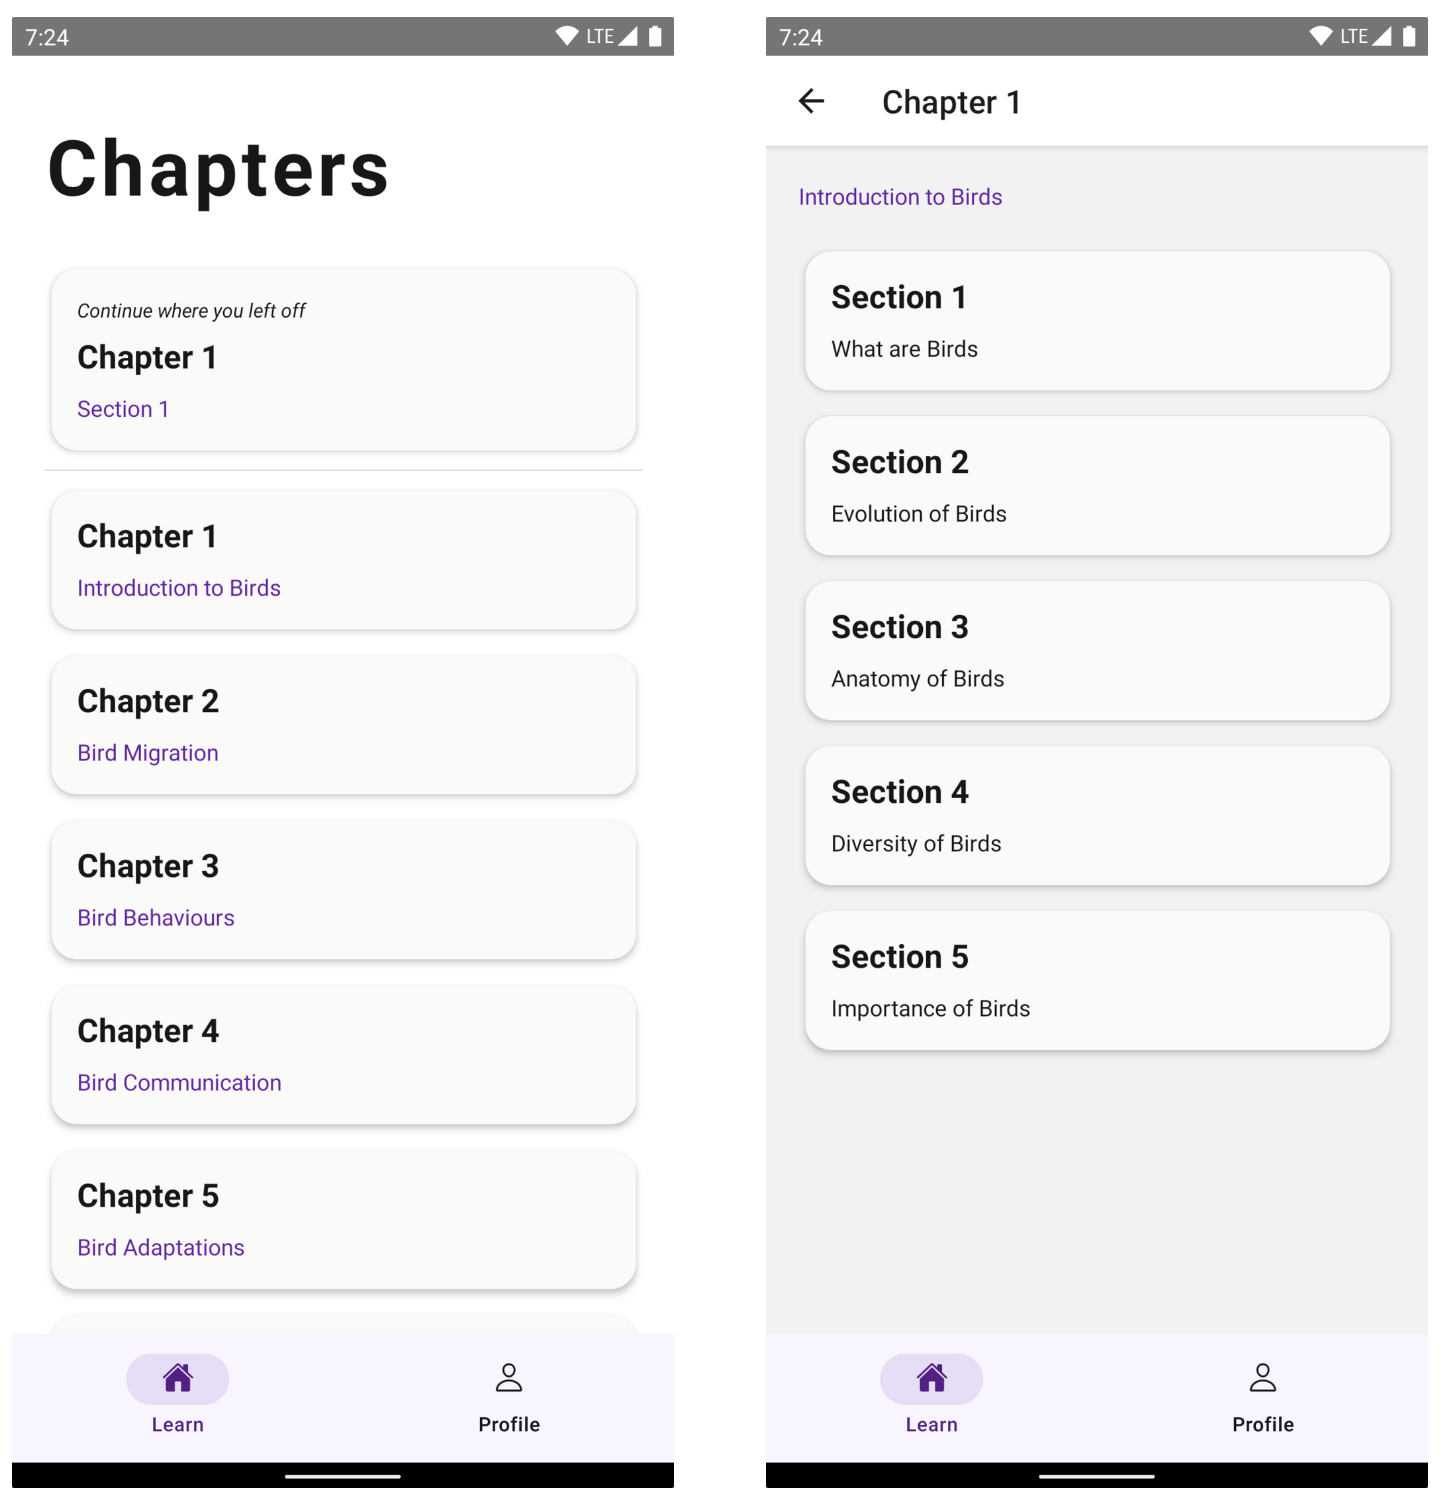
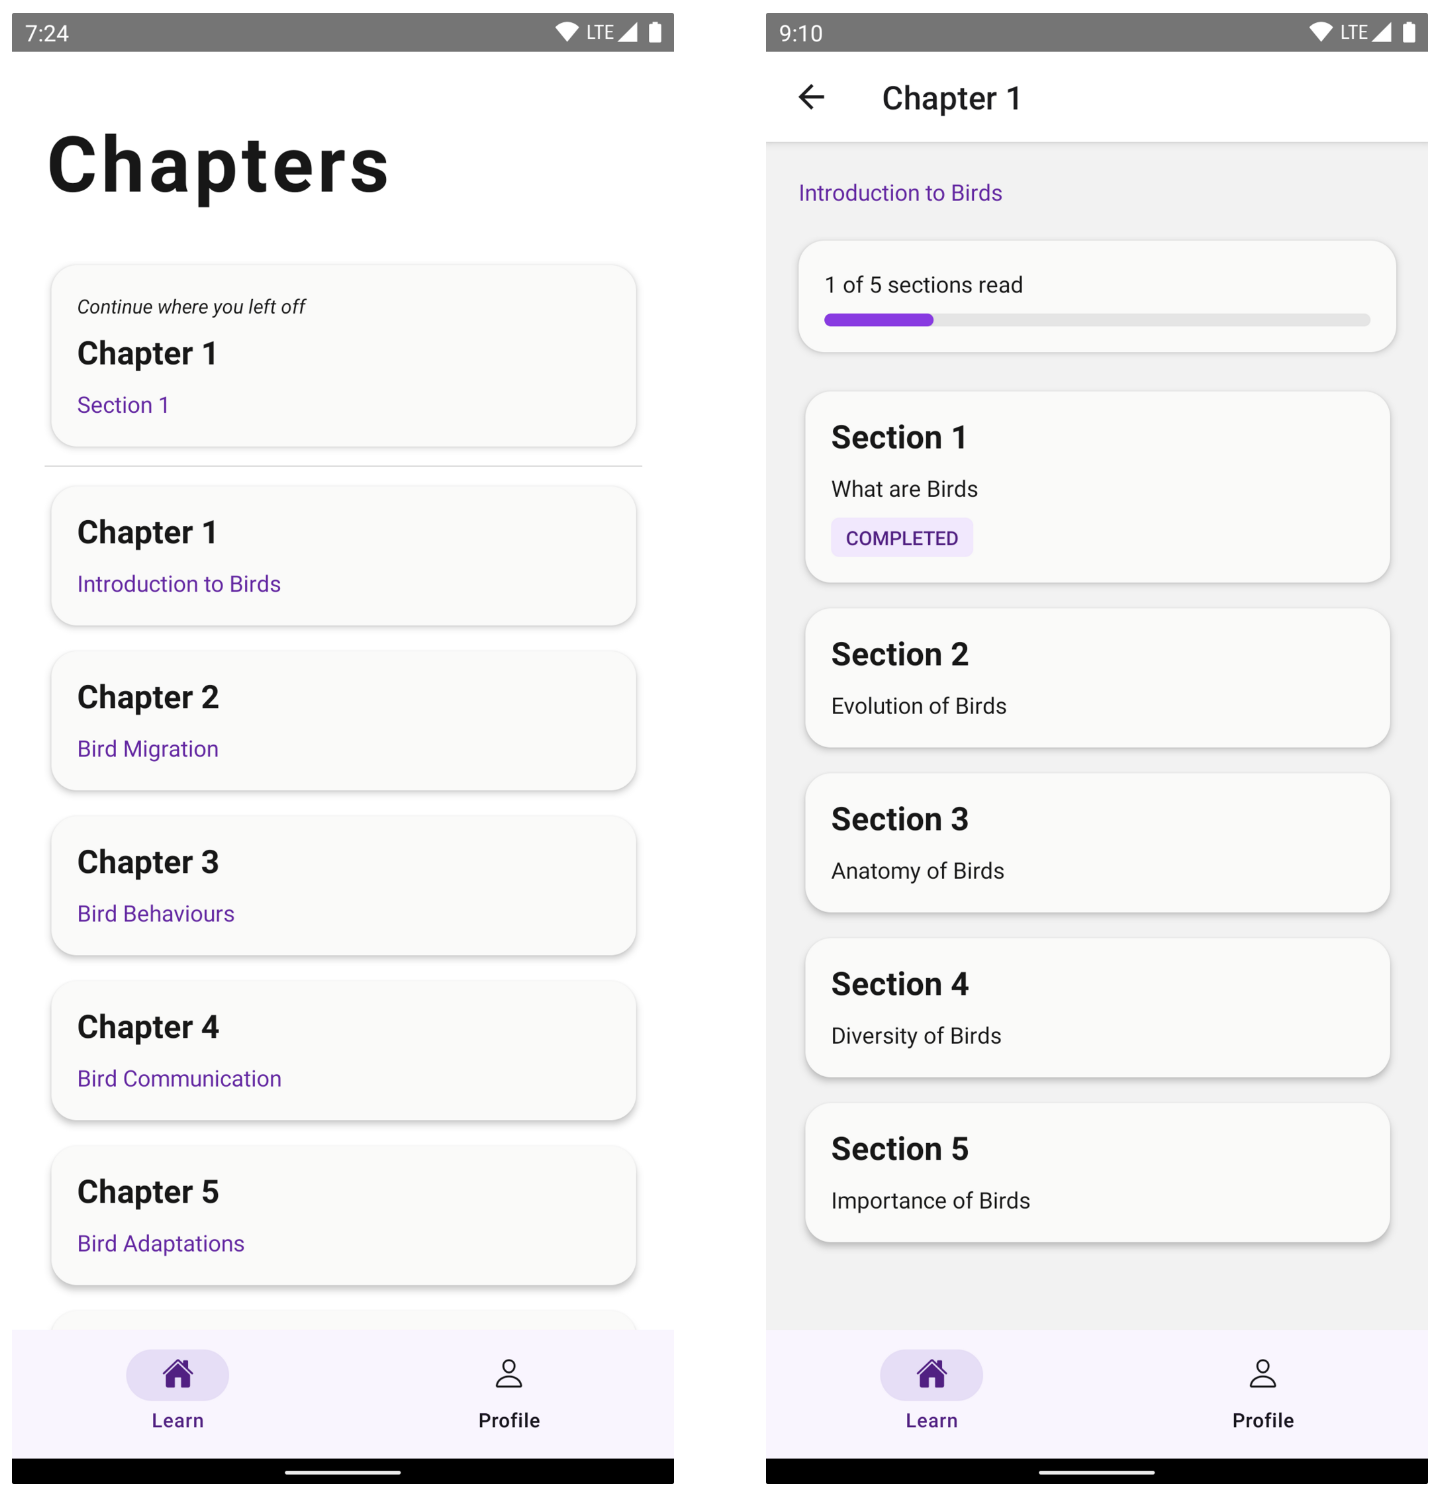
Update README

diff --git a/README.md b/README.md
@@ -16,13 +16,9 @@ Simple username-and-password based authentication to access the app.
 
 ![Chapters and sections screens](docs/images/chapters_sections.png)
 
-The content from the backend is organised into chapters and sections for easy navigation. Additionally, the last-read section is pinned to the top of the `Chapters` screen, to jump straight back reading.
+The content from the backend is organised into chapters and sections for easy navigation. Additionally, the last-read section is pinned to the top of the `Chapters` screen, to jump straight back to reading.
 
-
-https://user-images.githubusercontent.com/20805849/227514678-c25d3ff2-558f-4dbf-a5e8-c14f2db7b895.mov
-
-
-Not only does the app remember the last section you read, but it also tracks the exact position in the section you stopped at. This works for all sections, which especially helps those who like to jump back and forth between sections.
+Not only does the app remember the last section you read, but it also tracks the exact position in the section you stopped at. This works for all sections, which especially helps those who like to jump back and forth between sections. The overall progress through each chapter is also shown as the number of sections read, with each completed section marked.
 
 Moreover, the read progress is saved to your username, meaning multiple users can use the same app on the same phone and still have their individual progresses right there when they need it.
 
